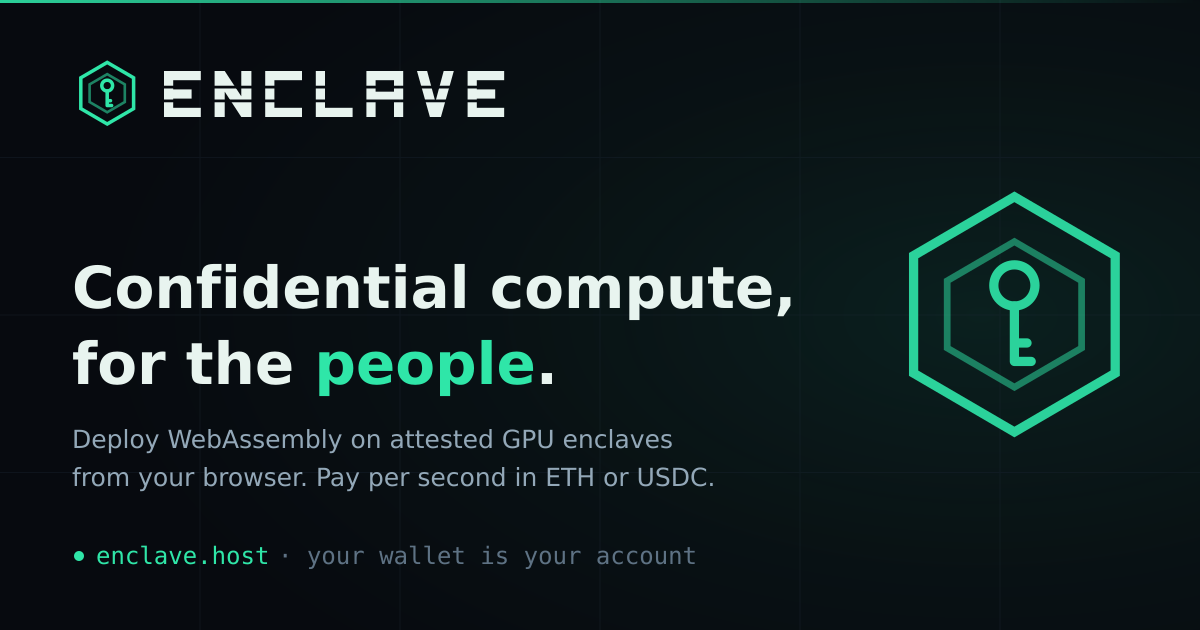
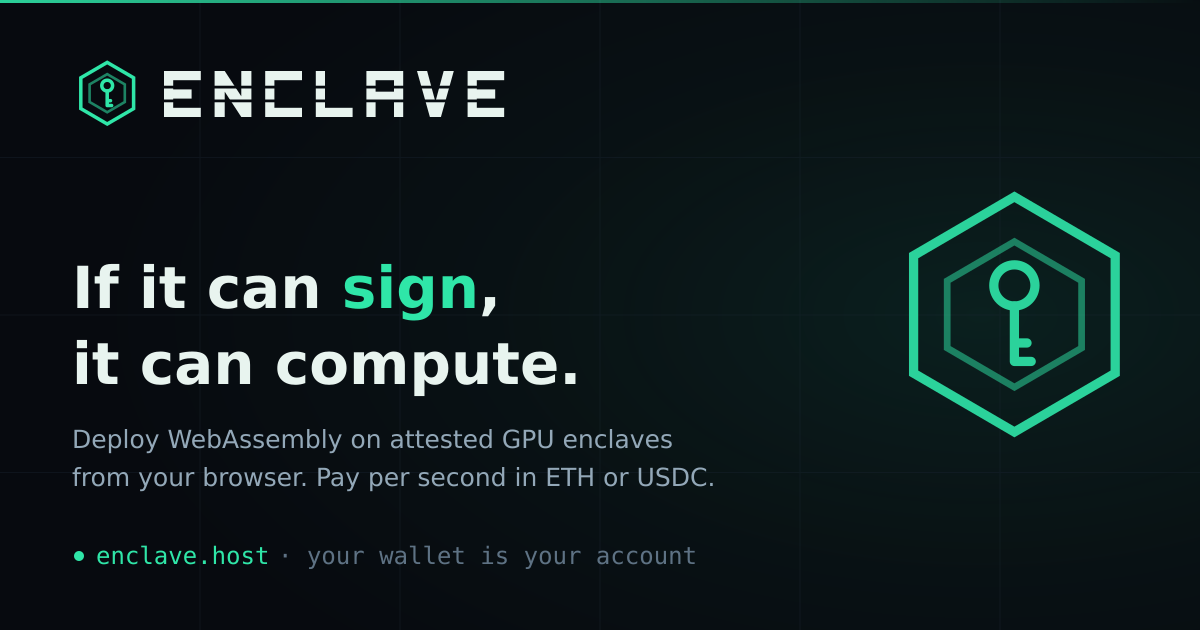
site: new slogan - "If it can sign, it can compute."
"Confidential compute, for the people" named humans as the market;
the account model is a wallet signature, which makes AI agents (and
DAOs) first-class customers too. Swept the hero h1, title tag, meta/OG
descriptions, og:image:alt on all five pages, JSON-LD slogan +
description, the facts-ticker chip, the README opener, and regenerated
assets/og.png from scripts/og-card.svg (jade highlight on "sign").

Changed region(s): [[0.0617, 0.4222, 0.6783, 0.5127], [0.0617, 0.5429, 0.4933, 0.6333]]

diff --git a/site/index.html b/site/index.html
@@ -5,20 +5,20 @@
 <meta name="viewport" content="width=device-width, initial-scale=1.0" />
 <meta name="color-scheme" content="dark" />
 <meta name="theme-color" content="#070A0F" />
-<title>Enclave · Confidential GPU Compute for the People</title>
-<meta name="description" content="Confidential compute, for the people. Deploy a WebAssembly app onto a verifiable, attested enclave equipped with a flagship NVIDIA GPU, straight from your browser: pay in ETH or USDC, and verify the enclave yourself. No sales calls, no gatekeepers. Built and operated by Enclave Host, Inc." />
+<title>Enclave · Confidential GPU Compute: If It Can Sign, It Can Compute</title>
+<meta name="description" content="If it can sign, it can compute. Deploy a WebAssembly app onto a verifiable, attested enclave equipped with a flagship NVIDIA GPU, straight from your browser: pay in ETH or USDC, and verify the enclave yourself. No sales calls, no gatekeepers. Built and operated by Enclave Host, Inc." />
 <link rel="canonical" href="https://enclave.host/" />
 <meta name="robots" content="index,follow,max-image-preview:large" />
 <meta property="og:site_name" content="Enclave" />
 <meta property="og:locale" content="en_US" />
 <meta property="og:type" content="website" />
 <meta property="og:url" content="https://enclave.host/" />
-<meta property="og:title" content="Enclave · Confidential Compute, for the People" />
+<meta property="og:title" content="Enclave · If It Can Sign, It Can Compute" />
 <meta property="og:description" content="Attested GPU enclaves for everyone, not just the Fortune 500. Deploy a WebAssembly app straight from your browser, pay per second in ETH or USDC, and verify the enclave yourself before sending a byte." />
 <meta property="og:image" content="https://enclave.host/assets/og.png" />
 <meta property="og:image:width" content="1200" />
 <meta property="og:image:height" content="630" />
-<meta property="og:image:alt" content="Enclave: confidential compute for the people, on attested GPU enclaves" />
+<meta property="og:image:alt" content="Enclave: if it can sign, it can compute. WebAssembly on attested GPU enclaves, paid per second." />
 <meta name="twitter:card" content="summary_large_image" />
 <meta name="twitter:image" content="https://enclave.host/assets/og.png" />
 <link rel="icon" href="favicon.ico" sizes="48x48 32x32 16x16" />
@@ -62,7 +62,7 @@
       "@id": "https://enclave.host/#org",
       "name": "Enclave Host, Inc.",
       "alternateName": "Enclave",
-      "slogan": "Confidential compute, for the people.",
+      "slogan": "If it can sign, it can compute.",
       "url": "https://enclave.host/",
       "logo": { "@type": "ImageObject", "url": "https://enclave.host/assets/logo-1024.png", "width": 1024, "height": 1024 },
       "email": "[email redacted]",
@@ -80,7 +80,7 @@
       "@id": "https://enclave.host/#website",
       "url": "https://enclave.host/",
       "name": "Enclave",
-      "description": "Confidential compute, for the people: deploy WebAssembly apps onto verifiable, attested enclaves with flagship NVIDIA GPUs, paid per second in ETH or USDC.",
+      "description": "If it can sign, it can compute: deploy WebAssembly apps onto verifiable, attested confidential enclaves with flagship NVIDIA GPUs, paid per second in ETH or USDC.",
       "publisher": { "@id": "https://enclave.host/#org" }
     },
     {
@@ -118,7 +118,7 @@
   <div class="wrap hero-grid">
     <div class="hero-copy">
       <span class="eyebrow">Trustless, attested enclaves · API v1</span>
-      <h1>Confidential compute,<br>for the&nbsp;<span class="hl">people</span>.</h1>
+      <h1>If it can <span class="hl">sign</span>,<br>it can&nbsp;compute.</h1>
       <p class="lede">The hardware that used to hide behind enterprise sales calls is now one click away: deploy a <b>WebAssembly app</b> onto a confidential enclave equipped with a <b>flagship NVIDIA GPU</b>, straight from your browser. Pay per second in <b>ETH or USDC</b>. Your wallet is your account. Then check the cryptographic attestation <b>yourself</b> before you send a single byte of data.</p>
       <div class="hero-cta">
         <a href="apps" class="btn btn-primary">Deploy an app <span class="arr" aria-hidden="true">→</span></a>

diff --git a/site/apps.html b/site/apps.html
@@ -18,7 +18,7 @@
 <meta property="og:image" content="https://enclave.host/assets/og.png" />
 <meta property="og:image:width" content="1200" />
 <meta property="og:image:height" content="630" />
-<meta property="og:image:alt" content="Enclave: confidential compute for the people, on attested GPU enclaves" />
+<meta property="og:image:alt" content="Enclave: if it can sign, it can compute. WebAssembly on attested GPU enclaves, paid per second." />
 <meta name="twitter:card" content="summary_large_image" />
 <meta name="twitter:image" content="https://enclave.host/assets/og.png" />
 <link rel="icon" href="favicon.ico" sizes="48x48 32x32 16x16" />

diff --git a/site/components/ticker/ticker.html b/site/components/ticker/ticker.html
@@ -1,4 +1,4 @@
 <div class="ticker">
-  <div class="ticker-track" aria-hidden="true"><span class="it"><b>For the people</b> · no sales calls, no gatekeepers, just your wallet</span><span class="it"><b>Hardware TEEs</b> · CPU + GPU confidential computing</span><span class="it"><b>Per-second</b> metering, settled on-chain</span><span class="it"><b>TLS</b> terminates inside the enclave</span><span class="it"><b>Flagship NVIDIA GPUs</b> · rent 1-100% of a card</span><span class="it"><b>Wasm apps</b> · wasi:http, sandboxed in the enclave</span><span class="it"><b>Wallet-native</b> · your wallet is your account</span><span class="it"><b>CORS-enabled</b> · drive it from the browser</span><span class="it"><b>Per-tenant</b> Wasm sandbox + process isolation · VRAM zeroed before reuse</span><span class="it"><b>Verify the report</b> before you connect</span><span class="it"><b>No custody</b> · payments forward straight through · top up to extend</span></div>
+  <div class="ticker-track" aria-hidden="true"><span class="it"><b>If it can sign</b> · it can compute · no sales calls, no gatekeepers</span><span class="it"><b>Hardware TEEs</b> · CPU + GPU confidential computing</span><span class="it"><b>Per-second</b> metering, settled on-chain</span><span class="it"><b>TLS</b> terminates inside the enclave</span><span class="it"><b>Flagship NVIDIA GPUs</b> · rent 1-100% of a card</span><span class="it"><b>Wasm apps</b> · wasi:http, sandboxed in the enclave</span><span class="it"><b>Wallet-native</b> · your wallet is your account</span><span class="it"><b>CORS-enabled</b> · drive it from the browser</span><span class="it"><b>Per-tenant</b> Wasm sandbox + process isolation · VRAM zeroed before reuse</span><span class="it"><b>Verify the report</b> before you connect</span><span class="it"><b>No custody</b> · payments forward straight through · top up to extend</span></div>
   <button class="ticker-pause" type="button" aria-pressed="false" aria-label="Pause the facts ticker">⏸︎</button>
 </div>

diff --git a/site/develop.html b/site/develop.html
@@ -18,7 +18,7 @@
 <meta property="og:image" content="https://enclave.host/assets/og.png" />
 <meta property="og:image:width" content="1200" />
 <meta property="og:image:height" content="630" />
-<meta property="og:image:alt" content="Enclave: confidential compute for the people, on attested GPU enclaves" />
+<meta property="og:image:alt" content="Enclave: if it can sign, it can compute. WebAssembly on attested GPU enclaves, paid per second." />
 <meta name="twitter:card" content="summary_large_image" />
 <meta name="twitter:image" content="https://enclave.host/assets/og.png" />
 <link rel="icon" href="favicon.ico" sizes="48x48 32x32 16x16" />

diff --git a/site/privacy.html b/site/privacy.html
@@ -18,7 +18,7 @@
 <meta property="og:image" content="https://enclave.host/assets/og.png" />
 <meta property="og:image:width" content="1200" />
 <meta property="og:image:height" content="630" />
-<meta property="og:image:alt" content="Enclave: confidential compute for the people, on attested GPU enclaves" />
+<meta property="og:image:alt" content="Enclave: if it can sign, it can compute. WebAssembly on attested GPU enclaves, paid per second." />
 <meta name="twitter:card" content="summary_large_image" />
 <meta name="twitter:image" content="https://enclave.host/assets/og.png" />
 <script type="application/ld+json" data-breadcrumb>

diff --git a/site/terms.html b/site/terms.html
@@ -18,7 +18,7 @@
 <meta property="og:image" content="https://enclave.host/assets/og.png" />
 <meta property="og:image:width" content="1200" />
 <meta property="og:image:height" content="630" />
-<meta property="og:image:alt" content="Enclave: confidential compute for the people, on attested GPU enclaves" />
+<meta property="og:image:alt" content="Enclave: if it can sign, it can compute. WebAssembly on attested GPU enclaves, paid per second." />
 <meta name="twitter:card" content="summary_large_image" />
 <meta name="twitter:image" content="https://enclave.host/assets/og.png" />
 <script type="application/ld+json" data-breadcrumb>

diff --git a/README.md b/README.md
@@ -1,6 +1,6 @@
 # Enclave
 
-**Confidential compute, for the people.** Enclave is a trustless compute platform you can actually verify: publish a WebAssembly app to an on-chain catalog, fund a deployment straight from your wallet, and it runs inside a hardware-attested enclave (AMD SEV-SNP CPUs + NVIDIA confidential computing on today's fleet) that neither the operator nor the host can see into. TLS terminates inside the enclave, billing is per-second on Base, and the whole chain of trust, from the CPU's attestation quote down to the exact commit of this repo that built the running image, can be verified from a browser before you send the service a byte.
+**If it can sign, it can compute.** Enclave is a trustless compute platform you can actually verify: publish a WebAssembly app to an on-chain catalog, fund a deployment straight from your wallet, and it runs inside a hardware-attested enclave (AMD SEV-SNP CPUs + NVIDIA confidential computing on today's fleet) that neither the operator nor the host can see into. TLS terminates inside the enclave, billing is per-second on Base, and the whole chain of trust, from the CPU's attestation quote down to the exact commit of this repo that built the running image, can be verified from a browser before you send the service a byte.
 
 - **Site / deploy console / app store:** https://enclave.host
 - **Developer guide + API reference:** https://enclave.host/develop (OpenAPI spec: [site/openapi.json](site/openapi.json))